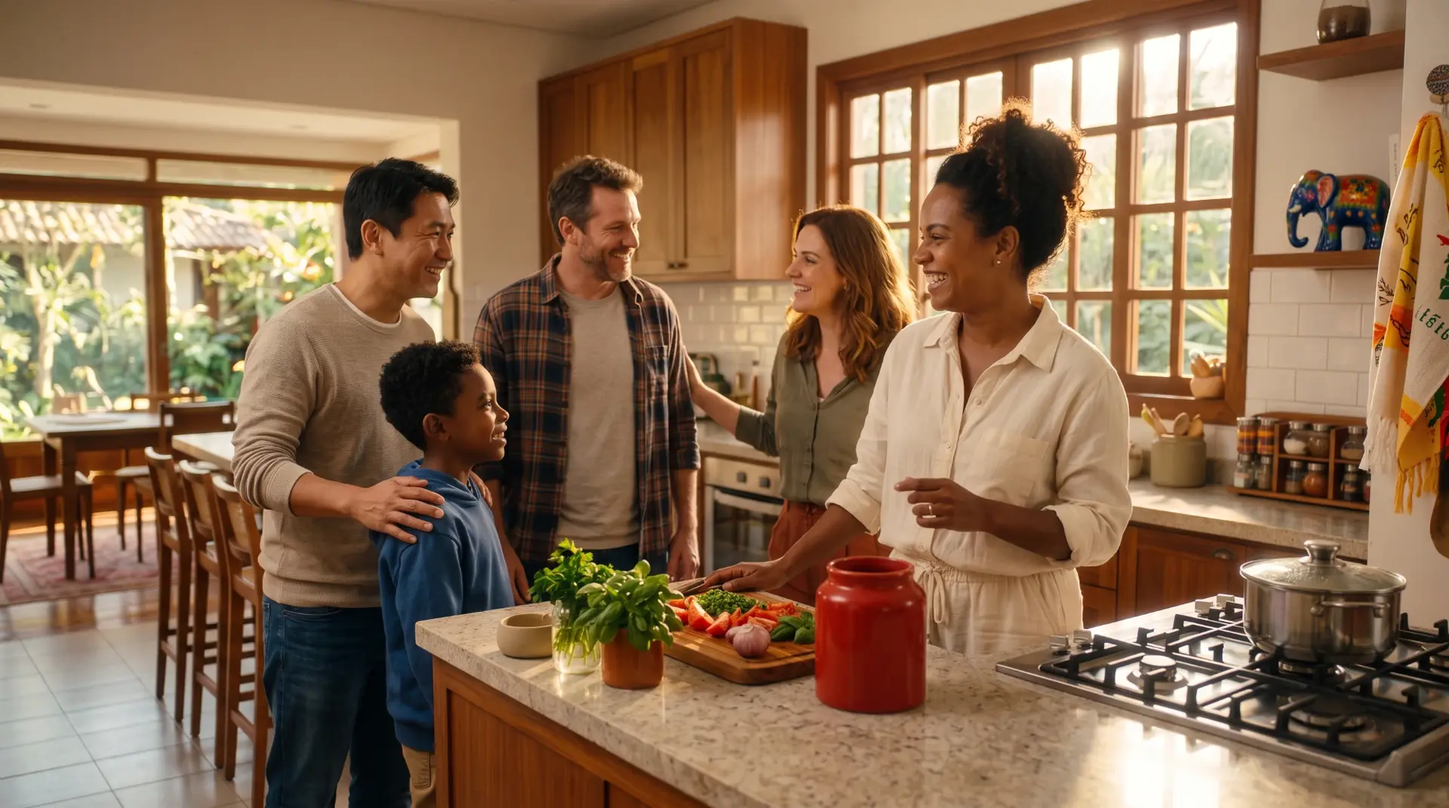
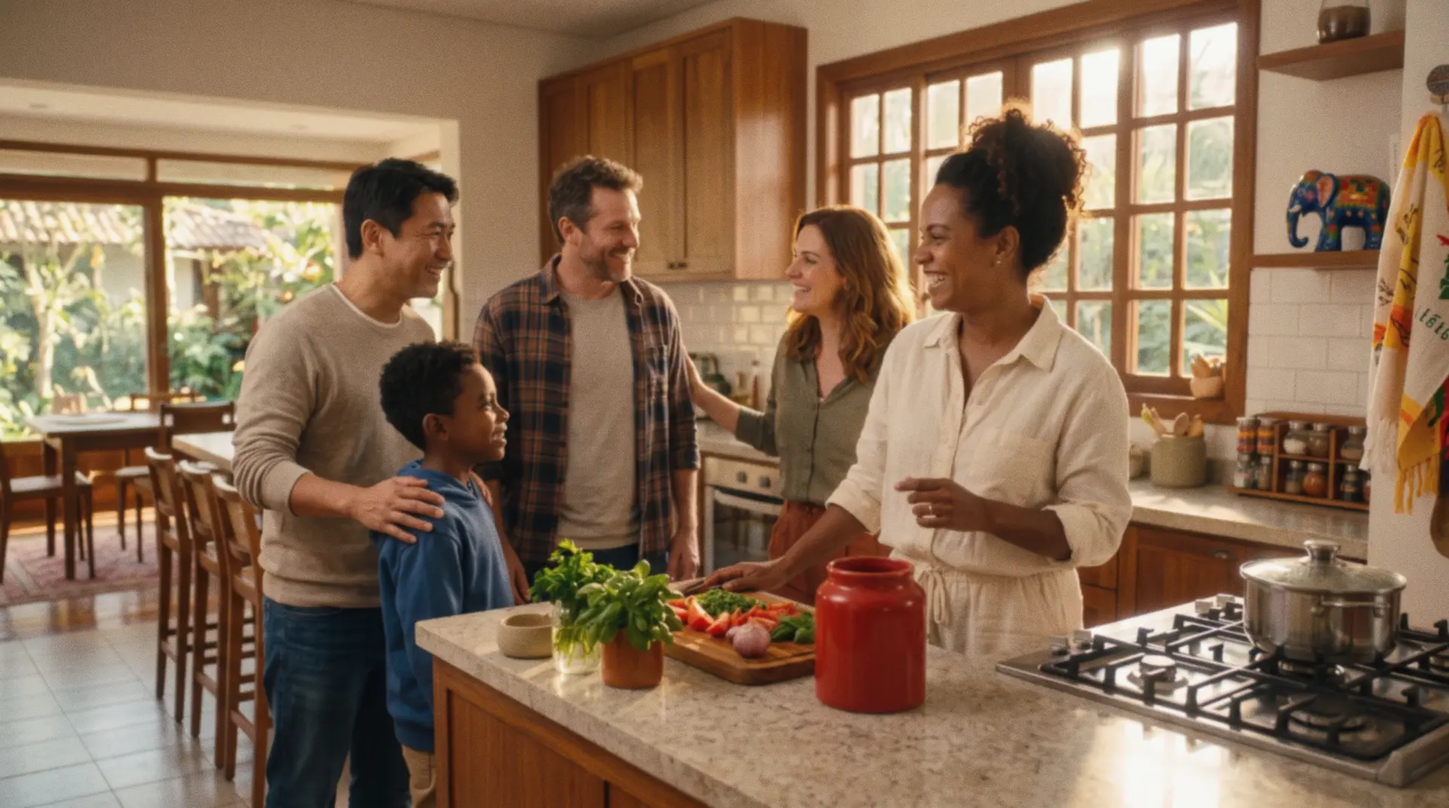
Revisão pelo feedback de direção
- Sem imagens da agência onde há alternativa nossa: 02 e 06 passam a usar
  os quadros gerados; o 06 mostra o portal composto (hoje → anos 90).
- Fotografia e arte absorve os primeiros quadros, que entram antes.
- Saem o mapa dos mundos e as cenas 1 a 6, que repetiam roteiro e imagens
  da agência. Entram produção híbrida e técnicas e integração, com o texto
  de Luciano Mathias.
- Quadros gerados com desfoque leve, grão e pretos abertos, menos "sharp".
- Cena final só com o top view gerado e a referência do mosaico.
- Arquivos da agência que saíram da página removidos do repositório.

Claude-Session: https://claude.ai/code/session_01FVJWYyXmZrDBJVcEuoxhji

diff --git a/index.html b/index.html
@@ -144,12 +144,36 @@ a:focus-visible,.dots button:focus-visible{outline:2px solid var(--leaf);outline
 .embed figcaption a{color:var(--tomato-soft);text-decoration:none}
 .embed figcaption a:hover{color:var(--cream)}
 
+/* ---------- portal composto ---------- */
+.portal-cut{position:absolute;z-index:1;right:7vw;top:50%;width:min(56vh,38vw);aspect-ratio:1;border-radius:50%;background:var(--img) 60% 45%/auto 135% no-repeat;transform:translateY(-50%) scale(1);opacity:1;box-shadow:0 0 0 1px rgba(246,232,207,.28),0 30px 90px rgba(0,0,0,.5);transition:transform 2.4s cubic-bezier(.2,.7,.2,1) .3s, opacity 1.2s ease .3s;pointer-events:none}
+html.js section:not(.on) .portal-cut{transform:translateY(-50%) scale(.15);opacity:0}
+
+/* ---------- arte, produção e integração ---------- */
+.art-head{display:grid;grid-template-columns:minmax(0,1fr) minmax(0,1fr);gap:clamp(24px,4vw,64px);align-items:end}
+.art-head .body{max-width:none}
+.quadros figure{position:relative;display:block;overflow:hidden;border-radius:3px;background:var(--ink-2);aspect-ratio:16/9;max-width:100%}
+.quadros figure.big{grid-row:span 2;aspect-ratio:auto}
+.plan{display:grid;gap:12px;min-width:0}
+.plan-item{padding:18px 20px;border:1px solid var(--line);border-radius:4px;background:rgba(246,232,207,.03)}
+.plan-item small{display:block;font-size:10px;letter-spacing:.26em;text-transform:uppercase;color:var(--tomato-soft);margin-bottom:6px}
+.plan-item b{display:block;font-family:var(--display);font-weight:800;font-size:clamp(20px,1.8vw,27px);line-height:1.05;color:var(--cream);text-transform:lowercase;margin-bottom:8px}
+.plan-item p{font-size:13.5px;font-weight:300;line-height:1.6;color:var(--paper)}
+.plan .note{margin-top:6px;text-transform:none;letter-spacing:.02em;font-size:13px;font-family:var(--script);font-style:italic;opacity:.85}
+.layers{list-style:none;display:grid;gap:12px;min-width:0}
+.layers li{display:grid;grid-template-columns:auto minmax(0,1fr);gap:4px 16px;padding:18px 20px;border:1px solid rgba(246,232,207,.22);border-radius:4px;background:rgba(20,11,8,.55);backdrop-filter:blur(4px)}
+.layers small{grid-row:span 2;font-family:var(--script);font-style:italic;font-size:26px;color:var(--leaf);line-height:1}
+.layers b{font-family:var(--display);font-weight:800;font-size:clamp(20px,1.8vw,27px);line-height:1.05;color:var(--cream)}
+.layers span{font-size:13.5px;font-weight:300;line-height:1.55;color:var(--paper)}
+
 @media (max-width:980px){
   .board{grid-template-columns:minmax(0,1fr)}
   .worlds{grid-template-columns:repeat(3,minmax(0,1fr))}
 }
 @media (max-width:820px){
   .side,.dots{display:none}
+  .art-head{grid-template-columns:minmax(0,1fr)}
+  .portal-cut{right:16px;top:4%;width:34vw;transform:none}
+  html.js section:not(.on) .portal-cut{transform:scale(.15)}
   .shade-r::before,.shade-l::before{background:linear-gradient(180deg, rgba(20,11,8,.55) 0%, rgba(20,11,8,.78) 45%, rgba(20,11,8,.9) 100%)}
   .credits{position:relative;bottom:auto;margin-top:8vh;justify-content:flex-start}
   .cover{flex-direction:column;justify-content:center;align-items:stretch}
@@ -164,7 +188,7 @@ a:focus-visible,.dots button:focus-visible{outline:2px solid var(--leaf);outline
 }
 @media (prefers-reduced-motion:reduce){
   main{scroll-behavior:auto}
-  .bg,.block,.board,.worlds .thumb,.quadros img{transition:none!important;transform:none!important}
+  .bg,.block,.board,.worlds .thumb,.quadros img,.portal-cut{transition:none!important;transform:none!important}
   html.js section:not(.on) .board, html.js section:not(.on) > .block{opacity:1}
 }
 </style>
@@ -173,7 +197,7 @@ a:focus-visible,.dots button:focus-visible{outline:2px solid var(--leaf);outline
 <body>
 
 <div class="side">Insula&nbsp;//&nbsp;Harbor&nbsp;//&nbsp;MRM&nbsp;//&nbsp;Elefante&nbsp;85&nbsp;anos&nbsp;//&nbsp;Filme&nbsp;Hero</div>
-<div class="counter" aria-live="polite"><span id="cur">1</span> <em>de</em> <span id="tot">19</span></div>
+<div class="counter" aria-live="polite"><span id="cur">1</span> <em>de</em> <span id="tot">13</span></div>
 <nav class="dots" id="dots" aria-label="Seções"></nav>
 
 <main id="deck">
@@ -215,9 +239,9 @@ a:focus-visible,.dots button:focus-visible{outline:2px solid var(--leaf);outline
 </section>
 
 <!-- 02 · PASSAGENS DE TEMPO E ENCONTROS -->
-<section class="glow shade-r" id="passagens">
-  <div class="bg" style="background-image:url('img/capa.webp');background-position:30% center"></div>
-  <div class="block right">
+<section class="glow shade-l" id="passagens">
+  <div class="bg" style="background-image:url('img/q-memorias-b.webp');background-position:70% center"></div>
+  <div class="block left">
     <div class="kicker">02</div>
     <h2>passagens de tempo e encontros</h2>
     <div class="script">continuidade visual e afetiva</div>
@@ -300,7 +324,8 @@ a:focus-visible,.dots button:focus-visible{outline:2px solid var(--leaf);outline
 
 <!-- 06 · O PORTAL -->
 <section class="glow shade-l" id="portal">
-  <div class="bg" style="background-image:url('img/portal-zoo-cozinha.webp');background-position:65% center"></div>
+  <div class="bg" style="background-image:url('img/q-cena1.webp');background-position:25% center"></div>
+  <div class="portal-cut" style="--img:url('img/q-memorias-b.webp')" aria-hidden="true"></div>
   <div class="block left">
     <div class="kicker">06</div>
     <h2>o portal</h2>
@@ -334,226 +359,95 @@ a:focus-visible,.dots button:focus-visible{outline:2px solid var(--leaf);outline
 
 <!-- 08 · FOTOGRAFIA E ARTE -->
 <section class="plain" id="arte">
-  <div class="board">
-    <div class="block">
-      <div class="kicker">08</div>
-      <h2>fotografia e arte</h2>
-      <div class="script">vermelho e verde em cena</div>
-      <div class="rule"></div>
-      <p class="lead">Cada mundo tem a sua luz, e a marca está em todos eles.</p>
+  <div class="wide">
+    <div class="art-head">
+      <div class="block">
+        <div class="kicker">08</div>
+        <h2>fotografia e arte</h2>
+        <div class="script">cada mundo com a sua luz</div>
+        <div class="rule"></div>
+        <p class="lead">Os primeiros quadros do filme já seguem a mesma regra: luz quente, casas acolhedoras e a paleta da campanha em cena.</p>
+      </div>
       <div class="body">
         <p>Luz quente e ambientes bem iluminados, em casas de classe AB com decoração aconchegante e toques de modernidade. As cozinhas são amplas, com espaço para várias pessoas em volta da bancada de preparo.</p>
         <p>A luz muda a cada travessia: o dourado da manhã na cozinha de hoje, o tungstênio quente dos anos 1990, o branco duro e os flashes da passarela, o âmbar noturno do jantar e o fim de tarde do zoológico.</p>
-        <p>Figurino e cenário carregam a paleta da campanha, com <strong>vermelho e verde</strong> como prioridade e amarelo e laranja como apoio. Objetos em forma de elefante são bem-vindos na decoração, e o produto aparece sempre com o molho espesso do extrato.</p>
+        <p>Figurino e cenário carregam <strong>vermelho e verde</strong> como prioridade, com amarelo e laranja de apoio. Objetos em forma de elefante entram na decoração, e o molho aparece sempre espesso.</p>
+        <div class="swatches" aria-label="Paleta da campanha">
+          <span style="--c:#d20023"><i></i>Vermelho 185 C</span>
+          <span style="--c:#78c800"><i></i>Verde Jotalhão 376 C</span>
+          <span style="--c:#ffcd00"><i></i>Amarelo</span>
+          <span style="--c:#ff550a"><i></i>Laranja 165 C</span>
+        </div>
       </div>
-      <div class="swatches" aria-label="Paleta da campanha">
-        <span style="--c:#d20023"><i></i>Vermelho 185 C</span>
-        <span style="--c:#78c800"><i></i>Verde Jotalhão 376 C</span>
-        <span style="--c:#ffcd00"><i></i>Amarelo</span>
-        <span style="--c:#ff550a"><i></i>Laranja 165 C</span>
-      </div>
-    </div>
-    <div class="frames">
-      <figure class="main"><img src="img/c6-batidinhas.webp" alt="Protagonista mexe a panela vermelha na cozinha iluminada pela janela" loading="lazy"><figcaption>O produto sempre com o molho espesso do extrato.</figcaption></figure>
-      <div class="strip three">
-        <figure class="square"><img src="img/arte-lata.webp" alt="Lata antiga de Elefante" loading="lazy"><figcaption>Lata antiga, para a cozinha dos anos 90.</figcaption></figure>
-        <figure class="square"><img src="img/arte-mochila.webp" alt="Mochila vermelha de Elefante" loading="lazy"><figcaption>Mochila de Elefante, para o zoológico.</figcaption></figure>
-        <figure class="square"><img src="img/c4-armario.webp" alt="Mão pega o pote de Elefante no armário" loading="lazy"><figcaption>Embalagens da marca no armário do jantar.</figcaption></figure>
-      </div>
-    </div>
-  </div>
-</section>
-
-<!-- 09 · OS MUNDOS -->
-<section class="plain" id="mundos">
-  <div class="wide">
-    <div class="block">
-      <div class="kicker">09</div>
-      <h2>como o filme se desdobra</h2>
-      <div class="script">seis mundos, uma cozinha só</div>
-      <div class="rule"></div>
-      <p class="lead">Cinco travessias levam a protagonista de volta ao ponto de partida. Os mundos seguem os letterings do roteiro, que voltam juntos no fim.</p>
-    </div>
-    <div class="worlds">
-      <a href="#cena1"><span class="thumb" style="background-image:url('img/c1-aberto.webp')"></span><i><b>hoje</b><s>onde tá o Elefante?</s></i></a>
-      <a href="#cena2"><span class="thumb" style="background-image:url('img/c2-mae.webp')"></span><i><b>memórias</b><s>a cozinha da mãe</s></i></a>
-      <a href="#cena3"><span class="thumb" style="background-image:url('img/passarela.webp')"></span><i><b>momentos</b><s>a passarela</s></i></a>
-      <a href="#cena4"><span class="thumb" style="background-image:url('img/c4-ilha.webp')"></span><i><b>sabores</b><s>o jantar</s></i></a>
-      <a href="#cena5"><span class="thumb" style="background-image:url('img/c5-filho.webp')"></span><i><b>afeto</b><s>o zoológico</s></i></a>
-      <a href="#cena6"><span class="thumb" style="background-image:url('img/c6-todos.webp')"></span><i><b>todo mundo</b><s>o reencontro</s></i></a>
-    </div>
-  </div>
-</section>
-
-<!-- 10 · PRIMEIROS QUADROS -->
-<section class="plain" id="quadros">
-  <div class="wide">
-    <div class="block">
-      <div class="kicker">10</div>
-      <h2>primeiros quadros</h2>
-      <div class="script">o filme começa a ganhar rosto</div>
-      <div class="rule"></div>
-      <p class="lead">Primeira rodada de imagens geradas a partir do tratamento: casting, luz e paleta de cada mundo. As referências do roteiro seguem valendo como guia de enquadramento.</p>
     </div>
     <div class="quadros">
-      <a class="big" href="#cena1"><img src="img/q-cena1.webp" alt="Protagonista de linho cru mexe o molho na cozinha iluminada pela manhã" loading="lazy"><i><b>cena 1 · hoje</b><s>dourado da manhã, linho cru, o elefante na prateleira</s></i></a>
-      <a href="#cena2"><img src="img/q-memorias-a.webp" alt="Mãe de vestido vermelho florido cozinha ao lado da filha, cozinha anos 90" loading="lazy"><i><b>cena 2 · memórias · opção A</b><s>vestido vermelho estampado, luz de pendente</s></i></a>
-      <a href="#cena2"><img src="img/q-memorias-b.webp" alt="Mãe de vestido florido miúdo cozinha com panela vermelha ao lado da filha" loading="lazy"><i><b>cena 2 · memórias · opção B</b><s>florido miúdo, panela vermelha, TV de tubo</s></i></a>
+      <figure class="big"><img src="img/q-cena1.webp" alt="Protagonista de linho cru mexe o molho na cozinha iluminada pela manhã" loading="lazy"><i><b>hoje</b><s>dourado da manhã, linho cru, o elefante na prateleira</s></i></figure>
+      <figure><img src="img/q-memorias-a.webp" alt="Mãe de vestido vermelho florido cozinha ao lado da filha, cozinha anos 90" loading="lazy"><i><b>memórias · opção A</b><s>vestido vermelho estampado, luz de pendente</s></i></figure>
+      <figure><img src="img/q-memorias-b.webp" alt="Mãe de vestido florido miúdo cozinha com panela vermelha ao lado da filha" loading="lazy"><i><b>memórias · opção B</b><s>florido miúdo, panela vermelha, TV de tubo</s></i></figure>
     </div>
     <div class="quadros pair">
-      <a href="#cena6"><img src="img/q-todos.webp" alt="Amigos e família chegam e se juntam em volta da bancada da cozinha" loading="lazy"><i><b>cena 6 · todo mundo</b><s>o reencontro em volta da bancada</s></i></a>
-      <a href="#final"><img src="img/q-topview.webp" alt="Top view de panela vermelha com molho de tomate espesso" loading="lazy"><i><b>cena final · top view</b><s>o círculo da panela, molho espesso</s></i></a>
+      <figure><img src="img/q-todos.webp" alt="Amigos e família se juntam em volta da bancada da cozinha" loading="lazy"><i><b>todo mundo</b><s>o reencontro em volta da bancada</s></i></figure>
+      <figure><img src="img/q-topview.webp" alt="Top view de panela vermelha com molho de tomate espesso" loading="lazy"><i><b>cena final</b><s>o círculo da panela, molho espesso</s></i></figure>
     </div>
   </div>
 </section>
 
-<!-- CENA 1 -->
-<section class="plain" id="cena1">
+<!-- 09 · PRODUÇÃO HÍBRIDA -->
+<section class="plain" id="producao">
   <div class="board">
     <div class="block">
-      <div class="kicker">Cena 1 <span>INT. Cozinha · Dia · trilha alegre</span></div>
-      <h2>onde tá o elefante?</h2>
-      <div class="script">o ponto de partida</div>
+      <div class="kicker">09</div>
+      <h2>produção híbrida</h2>
+      <div class="script">atuação real, mundos construídos</div>
       <div class="rule"></div>
-      <p class="lead">Plano aberto. Uma mulher prepara uma receita na própria cozinha, com a luz da manhã entrando pela janela.</p>
+      <p class="lead">Uma das propostas é realizar o filme de forma híbrida, combinando filmagem real com inteligência artificial.</p>
       <div class="body">
-        <p>Ela solta a colher, olha em volta e pergunta em voz alta: <q>Ué, onde tá o Elefante?</q> Em seguida, dá duas batidinhas na bancada com as mãos. É o primeiro par de batidas do filme e o som que vai marcar cada passagem.</p>
-        <p>Ela sai da bancada e caminha à procura. Surge o lettering <strong>Elefante apresenta: Feito pra juntar.</strong> Um portal se abre e revela uma cozinha antiga. Depois de uma certa estranheza, ela decide entrar.</p>
+        <p>Faremos a seleção e a produção de todo o casting, buscando personagens que transmitam a proximidade e o afeto dessa família. Nas cenas da casa e do zoológico, filmaremos suas ações em um estúdio neutro, com os objetos de interação e as bancadas em primeiro plano. Essa base física permite dirigir os gestos e as trocas de olhar com naturalidade, preservando a emoção das performances.</p>
+        <p>A partir desse material, construiremos os ambientes com IA, compondo as diferentes épocas e os mundos que a protagonista atravessa. Cenários, luz e perspectiva serão planejados em conjunto com a filmagem para integrar os personagens a cada espaço e dar unidade visual ao filme.</p>
+        <p><strong>Assim, a tecnologia amplia as possibilidades de criação, enquanto a atuação real sustenta a conexão com o público.</strong></p>
       </div>
-      <p class="note">Quando o portal se abre, a trilha da próxima cena começa a vazar.</p>
     </div>
-    <div class="frames">
-      <figure class="main"><img src="img/c1-aberto.webp" alt="Mulher cozinha em plano aberto" loading="lazy"><figcaption>Plano aberto: a receita no fogo.</figcaption></figure>
-      <div class="strip">
-        <figure><img src="img/c1-colher.webp" alt="Mão solta a colher de pau na bancada" loading="lazy"><figcaption>Ela solta a colher.</figcaption></figure>
-        <figure><img src="img/c1-close.webp" alt="Close da protagonista, em dúvida" loading="lazy"><figcaption>“Ué, onde tá o Elefante?”</figcaption></figure>
-        <figure><img src="img/portal-cozinha-anos90.webp" alt="Portal revela a cozinha dos anos 90" loading="lazy"><figcaption>O primeiro portal.</figcaption></figure>
+    <div class="plan">
+      <div class="plan-item">
+        <small>Casa e zoológico</small>
+        <b>filmagem real + ambientes em IA</b>
+        <p>Casting real filmado em estúdio neutro, com bancadas e objetos de interação em primeiro plano. Épocas, cenários e luz construídos em IA sobre esse material.</p>
       </div>
+      <div class="plan-item">
+        <small>Passarela de moda</small>
+        <b>integralmente em IA</b>
+        <p>A partir da identidade visual da protagonista escolhida no casting. Permite explorar o vestido inspirado em Elefante e a atmosfera do desfile, otimizando a produção da cena.</p>
+      </div>
+      <div class="plan-item">
+        <small>Transições e portais</small>
+        <b>desenhados sobre o movimento filmado</b>
+        <p>Desenvolvidos em sintonia com os movimentos dos personagens e a emoção de cada passagem.</p>
+      </div>
+      <p class="note">Todo o processo parte de uma mesma visão de direção, para que as cenas filmadas e as imagens geradas componham uma experiência contínua, acolhedora e visualmente coesa.</p>
     </div>
   </div>
 </section>
 
-<!-- CENA 2 -->
-<section class="plain" id="cena2">
+<!-- 10 · TÉCNICAS E INTEGRAÇÃO -->
+<section class="glow veil" id="integracao">
+  <div class="bg" style="background-image:url('img/q-memorias-a.webp');background-position:70% center;filter:saturate(.7) brightness(.8)"></div>
   <div class="board">
     <div class="block">
-      <div class="kicker">Cena 2 <span>INT. Cozinha · anos 90 · trilha abafada, som de vinil</span></div>
-      <h2>memórias</h2>
-      <div class="script">a mulher vira menina</div>
+      <div class="kicker">10</div>
+      <h2>técnicas e integração</h2>
+      <div class="script">o filmado e o gerado na mesma imagem</div>
       <div class="rule"></div>
-      <p class="lead">Ao atravessar o portal, ela volta a ser criança. A mãe está no fogão e abre uma latinha antiga de Elefante.</p>
+      <p class="lead">Para a construção das cenas, vamos explorar diferentes técnicas e ferramentas de integração entre o material filmado e as imagens geradas por IA, escolhendo os recursos mais adequados a cada situação.</p>
       <div class="body">
-        <p>A menina se aproxima emocionada e abraça a cintura da mãe. Surge o lettering <strong>Memórias</strong>. É a passagem em que a transição suave rende mais: a mulher vira menina durante a aproximação, e o abraço chega como reencontro.</p>
-        <p>A mãe pega uma colherada do extrato e dá duas batidinhas com a colher na panela. Um novo portal se abre e a menina caminha até ele. Ao atravessar, volta a ser adulta, e ouvimos aplausos e o disparo dos flashes.</p>
+        <p>Essa pesquisa contempla a composição dos ambientes e a integração de luz, textura e movimento, além das transições entre os mundos.</p>
+        <p><strong>As referências ajudam a orientar essas possibilidades, sempre buscando um resultado natural, com unidade cinematográfica e sensível à emoção de cada cena.</strong></p>
       </div>
     </div>
-    <div class="frames">
-      <figure class="main"><img src="img/c2-mae.webp" alt="Mãe cozinha com a lata antiga ao lado da filha pequena" loading="lazy"><figcaption>A mãe abre a latinha antiga de Elefante.</figcaption></figure>
-      <div class="strip">
-        <figure><img src="img/c2-memorias.webp" alt="Menina abraça a mãe com o lettering memórias" loading="lazy"><figcaption>O abraço. Lettering: memórias.</figcaption></figure>
-        <figure><img src="img/c2-lata.webp" alt="Colherada do extrato saindo da lata" loading="lazy"><figcaption>Duas batidinhas com a colher.</figcaption></figure>
-        <figure><img src="img/portal-anos90-passarela.webp" alt="Portal revela a passarela" loading="lazy"><figcaption>O portal para a passarela.</figcaption></figure>
-      </div>
-    </div>
-  </div>
-</section>
-
-<!-- CENA 3 -->
-<section class="plain" id="cena3">
-  <div class="board">
-    <div class="block">
-      <div class="kicker">Cena 3 <span>INT. Passarela de moda · Noite · trilha moderna, aplausos e flashes</span></div>
-      <h2>momentos</h2>
-      <div class="script">um vestido de elefante</div>
-      <div class="rule"></div>
-      <p class="lead">Ela surge desfilando com um vestido inspirado em Elefante e olha surpresa para a própria roupa.</p>
-      <div class="body">
-        <p>Ao fundo, vozes cochicham: <q>Uau, um vestido de Elefante.</q> Um estilista aparece ao lado dela e aponta para o vestido para receber os aplausos. Os dois caminham juntos e o lettering <strong>Momentos</strong> surge atrás deles.</p>
-        <p>No fim da passarela, eles param e posam para as câmeras. Dois flashes seguidos. Depois do segundo, um novo portal se abre para uma cozinha cheia, com conversas e risadas.</p>
-      </div>
-    </div>
-    <div class="frames">
-      <figure class="main"><img src="img/passarela.webp" alt="Protagonista desfila com vestido vermelho" loading="lazy"><figcaption>O desfile com o vestido inspirado em Elefante.</figcaption></figure>
-      <div class="strip">
-        <figure><img src="img/momentos.webp" alt="Protagonista e estilista com o lettering momentos" loading="lazy"><figcaption>O estilista. Lettering: momentos.</figcaption></figure>
-        <figure><img src="img/portal-passarela-cozinha.webp" alt="Portal revela a cozinha à noite" loading="lazy"><figcaption>Depois do segundo flash, o portal.</figcaption></figure>
-      </div>
-    </div>
-  </div>
-</section>
-
-<!-- CENA 4 -->
-<section class="plain" id="cena4">
-  <div class="board">
-    <div class="block">
-      <div class="kicker">Cena 4 <span>INT. Cozinha · Noite · trilha animada, som ambiente</span></div>
-      <h2>sabores</h2>
-      <div class="script">amor, pega o elefante?</div>
-      <div class="rule"></div>
-      <p class="lead">Uma cozinha com ilha central, várias pessoas reunidas em volta e um homem cozinhando.</p>
-      <div class="body">
-        <p>Ele olha para ela e diz, sorrindo: <q>Amor, pega o Elefante ali pra mim?</q> Ela vai até um armário superior de correr. Ao abri-lo, surge o lettering <strong>Sabores</strong>.</p>
-        <p>A mão dela atravessa o lettering na letra O e puxa de dentro dele uma embalagem comemorativa de Elefante, entre as outras embalagens da marca. Ela entrega o pote e ele manda dois beijinhos no ar. Um novo portal se abre, com som de natureza e risadas de criança.</p>
-      </div>
-    </div>
-    <div class="frames">
-      <figure class="main"><img src="img/c4-ilha.webp" alt="Amigos reunidos em volta da ilha da cozinha à noite" loading="lazy"><figcaption>A cozinha cheia, à noite.</figcaption></figure>
-      <div class="strip">
-        <figure><img src="img/c4-sabores.webp" alt="Mão atravessa o lettering sabores" loading="lazy"><figcaption>A mão atravessa o O de sabores.</figcaption></figure>
-        <figure><img src="img/c4-entrega.webp" alt="Ela entrega o pote ao marido" loading="lazy"><figcaption>A entrega e os dois beijinhos.</figcaption></figure>
-        <figure><img src="img/portal-cozinha-zoo.webp" alt="Portal revela o zoológico" loading="lazy"><figcaption>O portal para o zoológico.</figcaption></figure>
-      </div>
-    </div>
-  </div>
-</section>
-
-<!-- CENA 5 -->
-<section class="plain" id="cena5">
-  <div class="board">
-    <div class="block">
-      <div class="kicker">Cena 5 <span>EXT. Zoológico · Dia · sons da natureza e pessoas falando</span></div>
-      <h2>afeto</h2>
-      <div class="script">mãe, olha o elefante!</div>
-      <div class="rule"></div>
-      <p class="lead">A câmera acompanha a caminhada dela até um menino que come um cachorro-quente olhando um elefante.</p>
-      <div class="body">
-        <p>Entra o lettering <strong>Afeto</strong>. O menino aponta, <q>Mãe, olha o Elefante!</q>, e derruba um pouco do molho, bem consistente, na blusa. Ela olha para ele encantada, limpa a blusa duas vezes rapidamente com o dedo e responde sorrindo: <q>Você viu, filho?</q></p>
-        <p>Ela olha para o lado e percebe que mais um portal se abre. Ao entrar, volta para a mesma cozinha da primeira cena.</p>
-      </div>
-    </div>
-    <div class="frames">
-      <figure class="main"><img src="img/c5-afeto.webp" alt="Mulher caminha no zoológico com o lettering afeto" loading="lazy"><figcaption>A caminhada. Lettering: afeto.</figcaption></figure>
-      <div class="strip">
-        <figure><img src="img/c5-hotdog.webp" alt="Menino segura cachorro-quente com molho" loading="lazy"><figcaption>O molho cai na blusa.</figcaption></figure>
-        <figure><img src="img/c5-filho.webp" alt="Menino aponta o elefante para a mãe" loading="lazy"><figcaption>“Mãe, olha o Elefante!”</figcaption></figure>
-        <figure><img src="img/portal-zoo-cozinha.webp" alt="Portal de volta para a cozinha" loading="lazy"><figcaption>O portal de volta.</figcaption></figure>
-      </div>
-    </div>
-  </div>
-</section>
-
-<!-- CENA 6 -->
-<section class="plain" id="cena6">
-  <div class="board">
-    <div class="block">
-      <div class="kicker">Cena 6 <span>INT. Cozinha · Dia · trilha inicial, mais animada</span></div>
-      <h2>todo mundo</h2>
-      <div class="script">tava aqui esse tempo todo</div>
-      <div class="rule"></div>
-      <p class="lead">Close na bancada. A tromba do Jotalhão entra em quadro e deixa ali o pote de Elefante.</p>
-      <div class="body">
-        <p>Ela olha para o pote, surpresa e feliz: <q>Ah, o Elefante tava aqui esse tempo todo!</q> Nesse momento, as pessoas que apareceram nos outros mundos chegam sorrindo, interagem com ela e se juntam em volta da bancada.</p>
-        <p>Ela pega uma colherada do pote, em close, e dá duas batidinhas na panela. <strong>A câmera sobe para o top view da panela, e daí seguimos para a cena final.</strong></p>
-      </div>
-    </div>
-    <div class="frames">
-      <figure class="main"><img src="img/c6-todos.webp" alt="Amigos chegam à cozinha e se juntam em volta da bancada" loading="lazy"><figcaption>Todos em volta da bancada.</figcaption></figure>
-      <div class="strip">
-        <figure><img src="img/c6-tromba.webp" alt="Tromba do Jotalhão deixa o pote na bancada" loading="lazy"><figcaption>A tromba do Jotalhão.</figcaption></figure>
-        <figure><img src="img/c6-pote.webp" alt="Protagonista encontra o pote" loading="lazy"><figcaption>“Tava aqui esse tempo todo!”</figcaption></figure>
-        <figure><img src="img/c6-batidinhas.webp" alt="Ela mexe a panela com a colher" loading="lazy"><figcaption>Duas batidinhas na panela.</figcaption></figure>
-      </div>
-    </div>
+    <ul class="layers">
+      <li><small>01</small><b>composição dos ambientes</b><span>épocas e mundos construídos em volta da atuação filmada</span></li>
+      <li><small>02</small><b>luz, textura e movimento</b><span>a mesma luz no personagem e no cenário, sem costura aparente</span></li>
+      <li><small>03</small><b>transições entre os mundos</b><span>portais e passagens guiados pelo gesto de cada personagem</span></li>
+    </ul>
   </div>
 </section>
 
@@ -579,8 +473,7 @@ a:focus-visible,.dots button:focus-visible{outline:2px solid var(--leaf);outline
       <figcaption><span>Referência · Mosaico da cena final</span></figcaption>
     </figure>
       <div class="strip">
-        <figure><img src="img/ideia.webp" alt="Top view do pote aberto de Elefante" loading="lazy"><figcaption>Top view: da panela ao pote.</figcaption></figure>
-        <figure><img src="img/cartela.webp" alt="Pote aberto com o lettering Feito pra juntar Todo Mundo" loading="lazy"><figcaption>Os letreiros em movimento.</figcaption></figure>
+        <figure><img src="img/q-topview.webp" alt="Top view da panela com molho espesso" loading="lazy"><figcaption>Top view: o círculo da panela.</figcaption></figure>
         <figure><img src="img/mosaico.webp" alt="Mosaico circular com cenas da campanha sobre fundo verde" loading="lazy"><figcaption>O mosaico do KV.</figcaption></figure>
       </div>
     </div>

diff --git a/README.md b/README.md
@@ -1,8 +1,11 @@
 # Elefante 85 anos · Filme Hero
 
-Tratamento com a visão do diretor. Página única (`index.html`), sem build, publicada pelo GitHub Pages.
+Tratamento com a visão de direção de Harbor (Fabio Hacker & Luciano Mathias). Página única
+(`index.html`), sem build, publicada pelo GitHub Pages a partir do branch `gh-pages`.
 
-- `img/` — quadros do roteiro (deck MRM, v2) e referência do mosaico, em WebP
-- Os 4 vídeos de referência ficam no Google Drive e entram na página pelo player do Drive (`/preview`).
-  Para quem está fora da equipe conseguir assistir, os arquivos precisam estar compartilhados como
-  "Qualquer pessoa com o link · Leitor".
+- `img/q-*.webp` — quadros gerados para o filme (com grão e desfoque leve, para tirar o aspecto "sharp")
+- `img/` — ainda três quadros do deck da agência, só como fundo das seções 03, 05 e 07
+- `video/` — as quatro referências de movimento, em MP4 (H.264) e WebM (VP9), com capa `.webp`
+- `producao/` — prompts de imagem para o Magnific (não aparece na página)
+
+Para publicar: commit no `main` e `git push origin main:gh-pages`.
